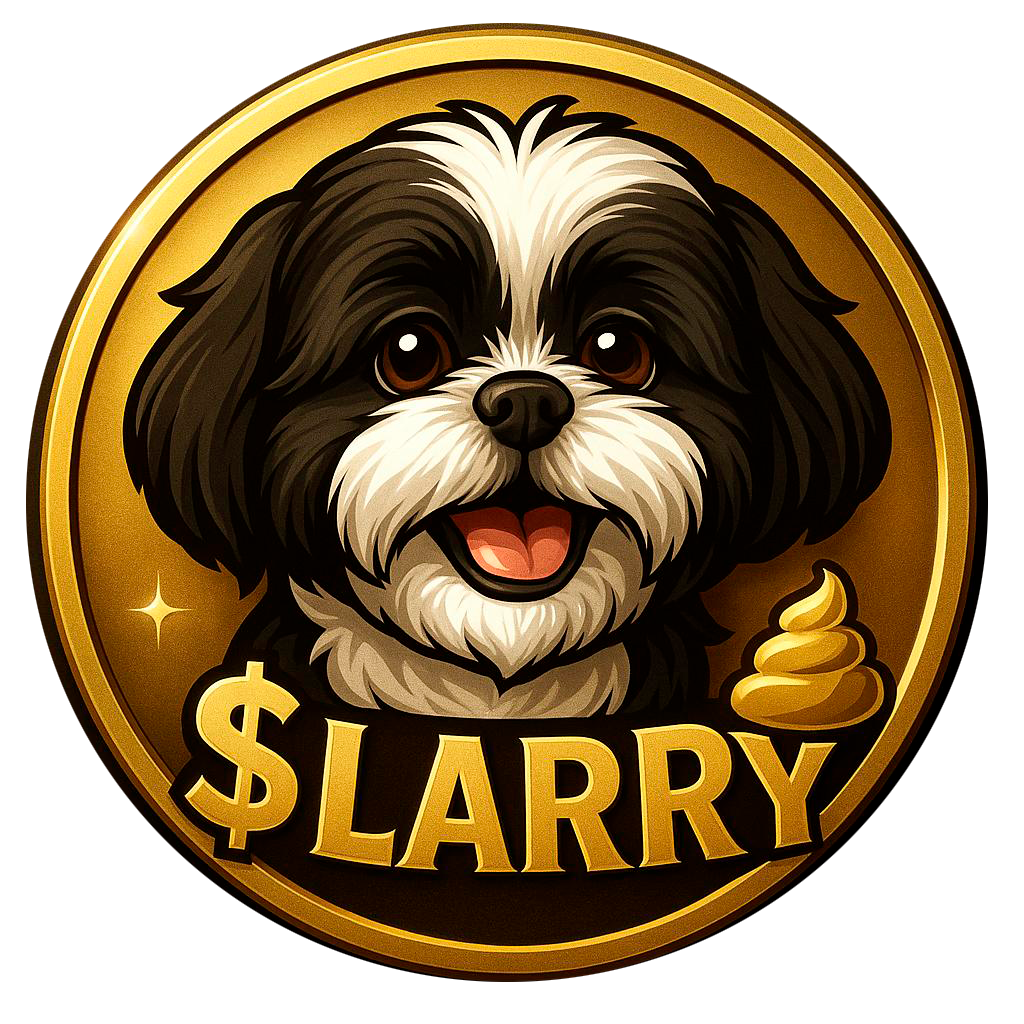
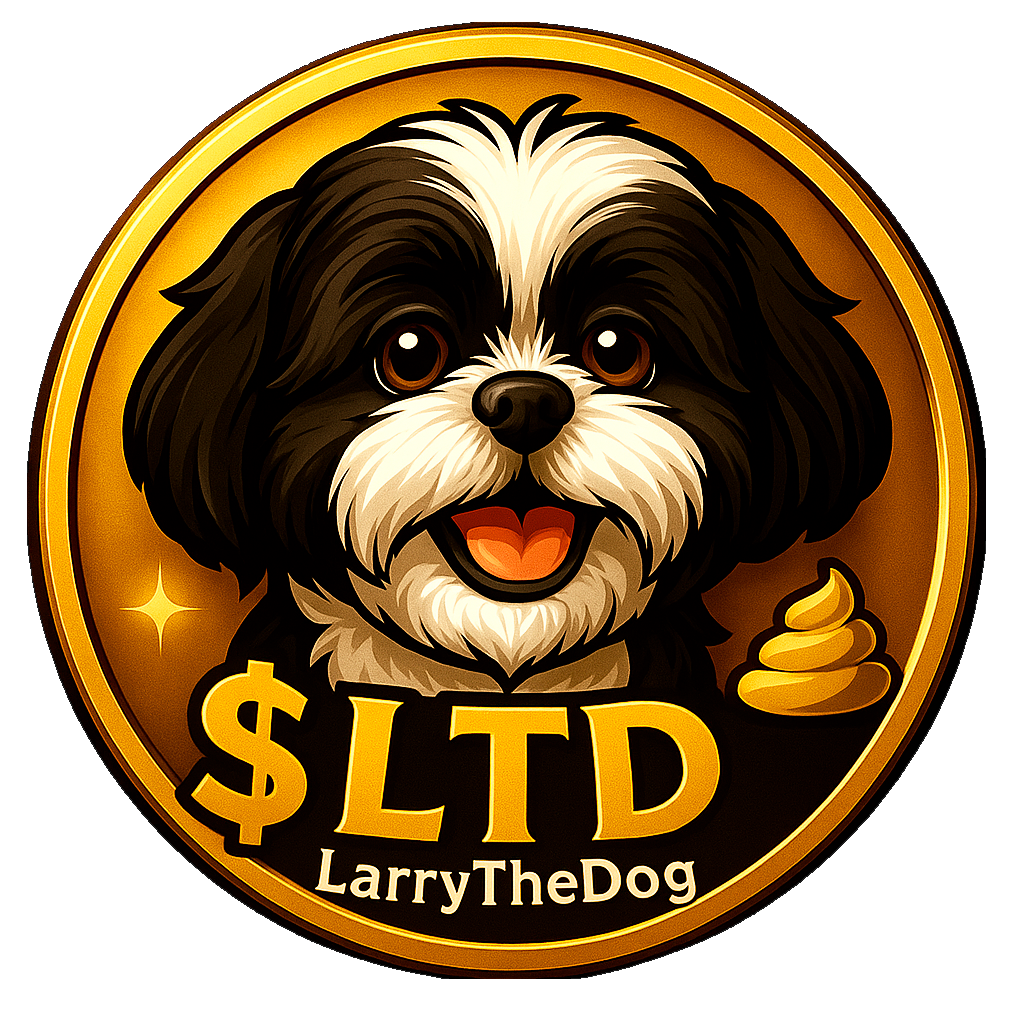
Add new LTD TOken Symbol

diff --git a/index.html b/index.html
@@ -3,7 +3,7 @@
 <head>
     <meta charset="UTF-8">
     <meta name="viewport" content="width=device-width, initial-scale=1.0">
-    <title>$LARRY - The Filthiest Shit-tzu on Solana</title>
+    <title>$LTD LarryTheDog - The Filthiest Shit-tzu on Solana</title>
     <meta name="description" content="Larry - Eats poop, shares wealth. The filthiest shit-tzu memecoin on Solana. Join the pack and bark to the moon.">
     <style>
         @import url('https://fonts.googleapis.com/css2?family=Poppins:wght@400;600;700;900&display=swap');
@@ -534,7 +534,7 @@
 <body>
     <!-- Navbar -->
     <nav class="navbar">
-        <div class="logo-nav">$LARRY 💩</div>
+        <div class="logo-nav">$LTD LarryTheDog 💩</div>
         <div class="nav-links">
             <a href="#about">About</a>
             <a href="#tokenomics">Tokenomics</a>
@@ -550,11 +550,11 @@
             <!-- Reemplaza esta URL con tu imagen del banner completo -->
             <img src="assests/larrybanner.jpeg" alt="Larry Banner" class="hero-banner">
             
-            <h1>$LARRY</h1>
+            <h1>$LTD LarryTheDog</h1>
             <p class="hero-tagline">Eats poop, shares wealth 💩🚀</p>
             
             <div class="cta-group">
-                <a href="#how-to-buy" class="btn btn-primary">Buy $LARRY</a>
+                <a href="#how-to-buy" class="btn btn-primary">Buy $LTD</a>
                 <a href="https://t.me/larrypoopgang" class="btn btn-secondary" target="_blank">Join the Pack</a>
             </div>
 
@@ -568,7 +568,7 @@
     <!-- About Section -->
     <section class="about" id="about">
         
-        <h2>Who is Larry? 🦴</h2>
+        <h2>Who is LarryTheDog? 🦴</h2>
 
 
 
@@ -593,12 +593,12 @@
     <p>And when the world laughed, he didn’t care.<br>
     He turned his flaw into fuel. His gross little habit… into a glorious digital revolution.</p>
 
-    <p>Now, $LARRY can’t be stopped.<br>
+    <p>Now, $LTD LarryTheDog can’t be stopped.<br>
     It multiplies. It moonwalks. It stinks of destiny.</p>
 
     <p><em>But the truth? The real story behind Larry?<br>That hasn’t been told… yet.</em></p>
 
-    <p><strong>$LARRY isn’t just a token.<br>
+    <p><strong>$LTD LarryTheDog isn’t just a token.<br>
     It’s a tribute to imperfection, loyalty, and glorious absurdity.</strong></p>
 
     <p><strong>Worship the weird. Embrace the stink. Bark to the moon.</strong></p>
@@ -626,7 +626,7 @@
 
     <!-- Tokenomics Section -->
     <section class="tokenomics" id="tokenomics">
-        <h2>Larrynomics 💰</h2>
+        <h2>LarryTheDognomics 💰</h2>
         <div class="supply-info">Total Supply: 1,000,000,000 $LARRY</div>
         <div class="token-grid">
             <div class="token-card">
@@ -691,7 +691,7 @@
         </div>
 
         <div class="roadmap-phase">
-            <h3 class="phase-title">Phase 4: "The Larry Universe" 🌍</h3>
+            <h3 class="phase-title">Phase 4: "The LarryTheDog Universe" 🌍</h3>
             <ul>
                 <li>Expanded media empire</li>
                 <li>Mobile app launch</li>
@@ -708,7 +708,7 @@
                 <li>Major exchange listings</li>
                 <li>Global pet welfare initiatives</li>
                 <li>Entertainment partnerships</li>
-                <li>Larry becomes a movement</li>
+                <li>LarryTheDog becomes a movement</li>
             </ul>
         </div>
     </div>
@@ -737,8 +737,8 @@
             </div>
             <div class="step">
                 <div class="step-number">4</div>
-                <h3>Swap for $LARRY</h3>
-                <p>Paste the CA and swap SOL for $LARRY</p>
+                <h3>Swap for $LTD</h3>
+                <p>Paste the CA and swap SOL for $LTD</p>
             </div>
         </div>
     </section>
@@ -767,24 +767,24 @@
             <a href="#" class="social-card">
                 <div class="social-icon"><img src="assests/tiktok-3d-logo-free-png.png" alt="TikTok Logo" class="about-logo"></div>
                 <h3>TikTok</h3>
-                <p>Watch Larry videos</p>
+                <p>Watch LarryTheDog videos</p>
             </a>
         </div>
     </section>
 
     <!-- Footer -->
     <footer>
-        <div class="footer-tagline">"$LARRY doesn't have a whitepaper, he has toilet paper." 🧻</div>
+        <div class="footer-tagline">"$LTD LarryTheDog doesn't have a whitepaper, he has toilet paper." 🧻</div>
         <div class="footer-subtitle">HODL and pray. The next millionaire smells funny. 💩🚀</div>
         
         <div class="disclaimer">
-            <strong>Disclaimer:</strong> $LARRY is a memecoin with no intrinsic value or expectation of financial return. 
+            <strong>Disclaimer:</strong> $LTD is a memecoin with no intrinsic value or expectation of financial return. 
             This is a community-driven entertainment project. Cryptocurrency investments are highly speculative and risky. 
             Only invest what you can afford to lose. DYOR (Do Your Own Research). 
             Not financial advice. Trade at your own risk.
         </div>
         
-        <p style="margin-top: 30px; color: #666;">© 2025 $LARRY - All rights reserved</p>
+        <p style="margin-top: 30px; color: #666;">© 2025 $LTD LarryTheDog - All rights reserved</p>
     </footer>
 </body>
 </html>
